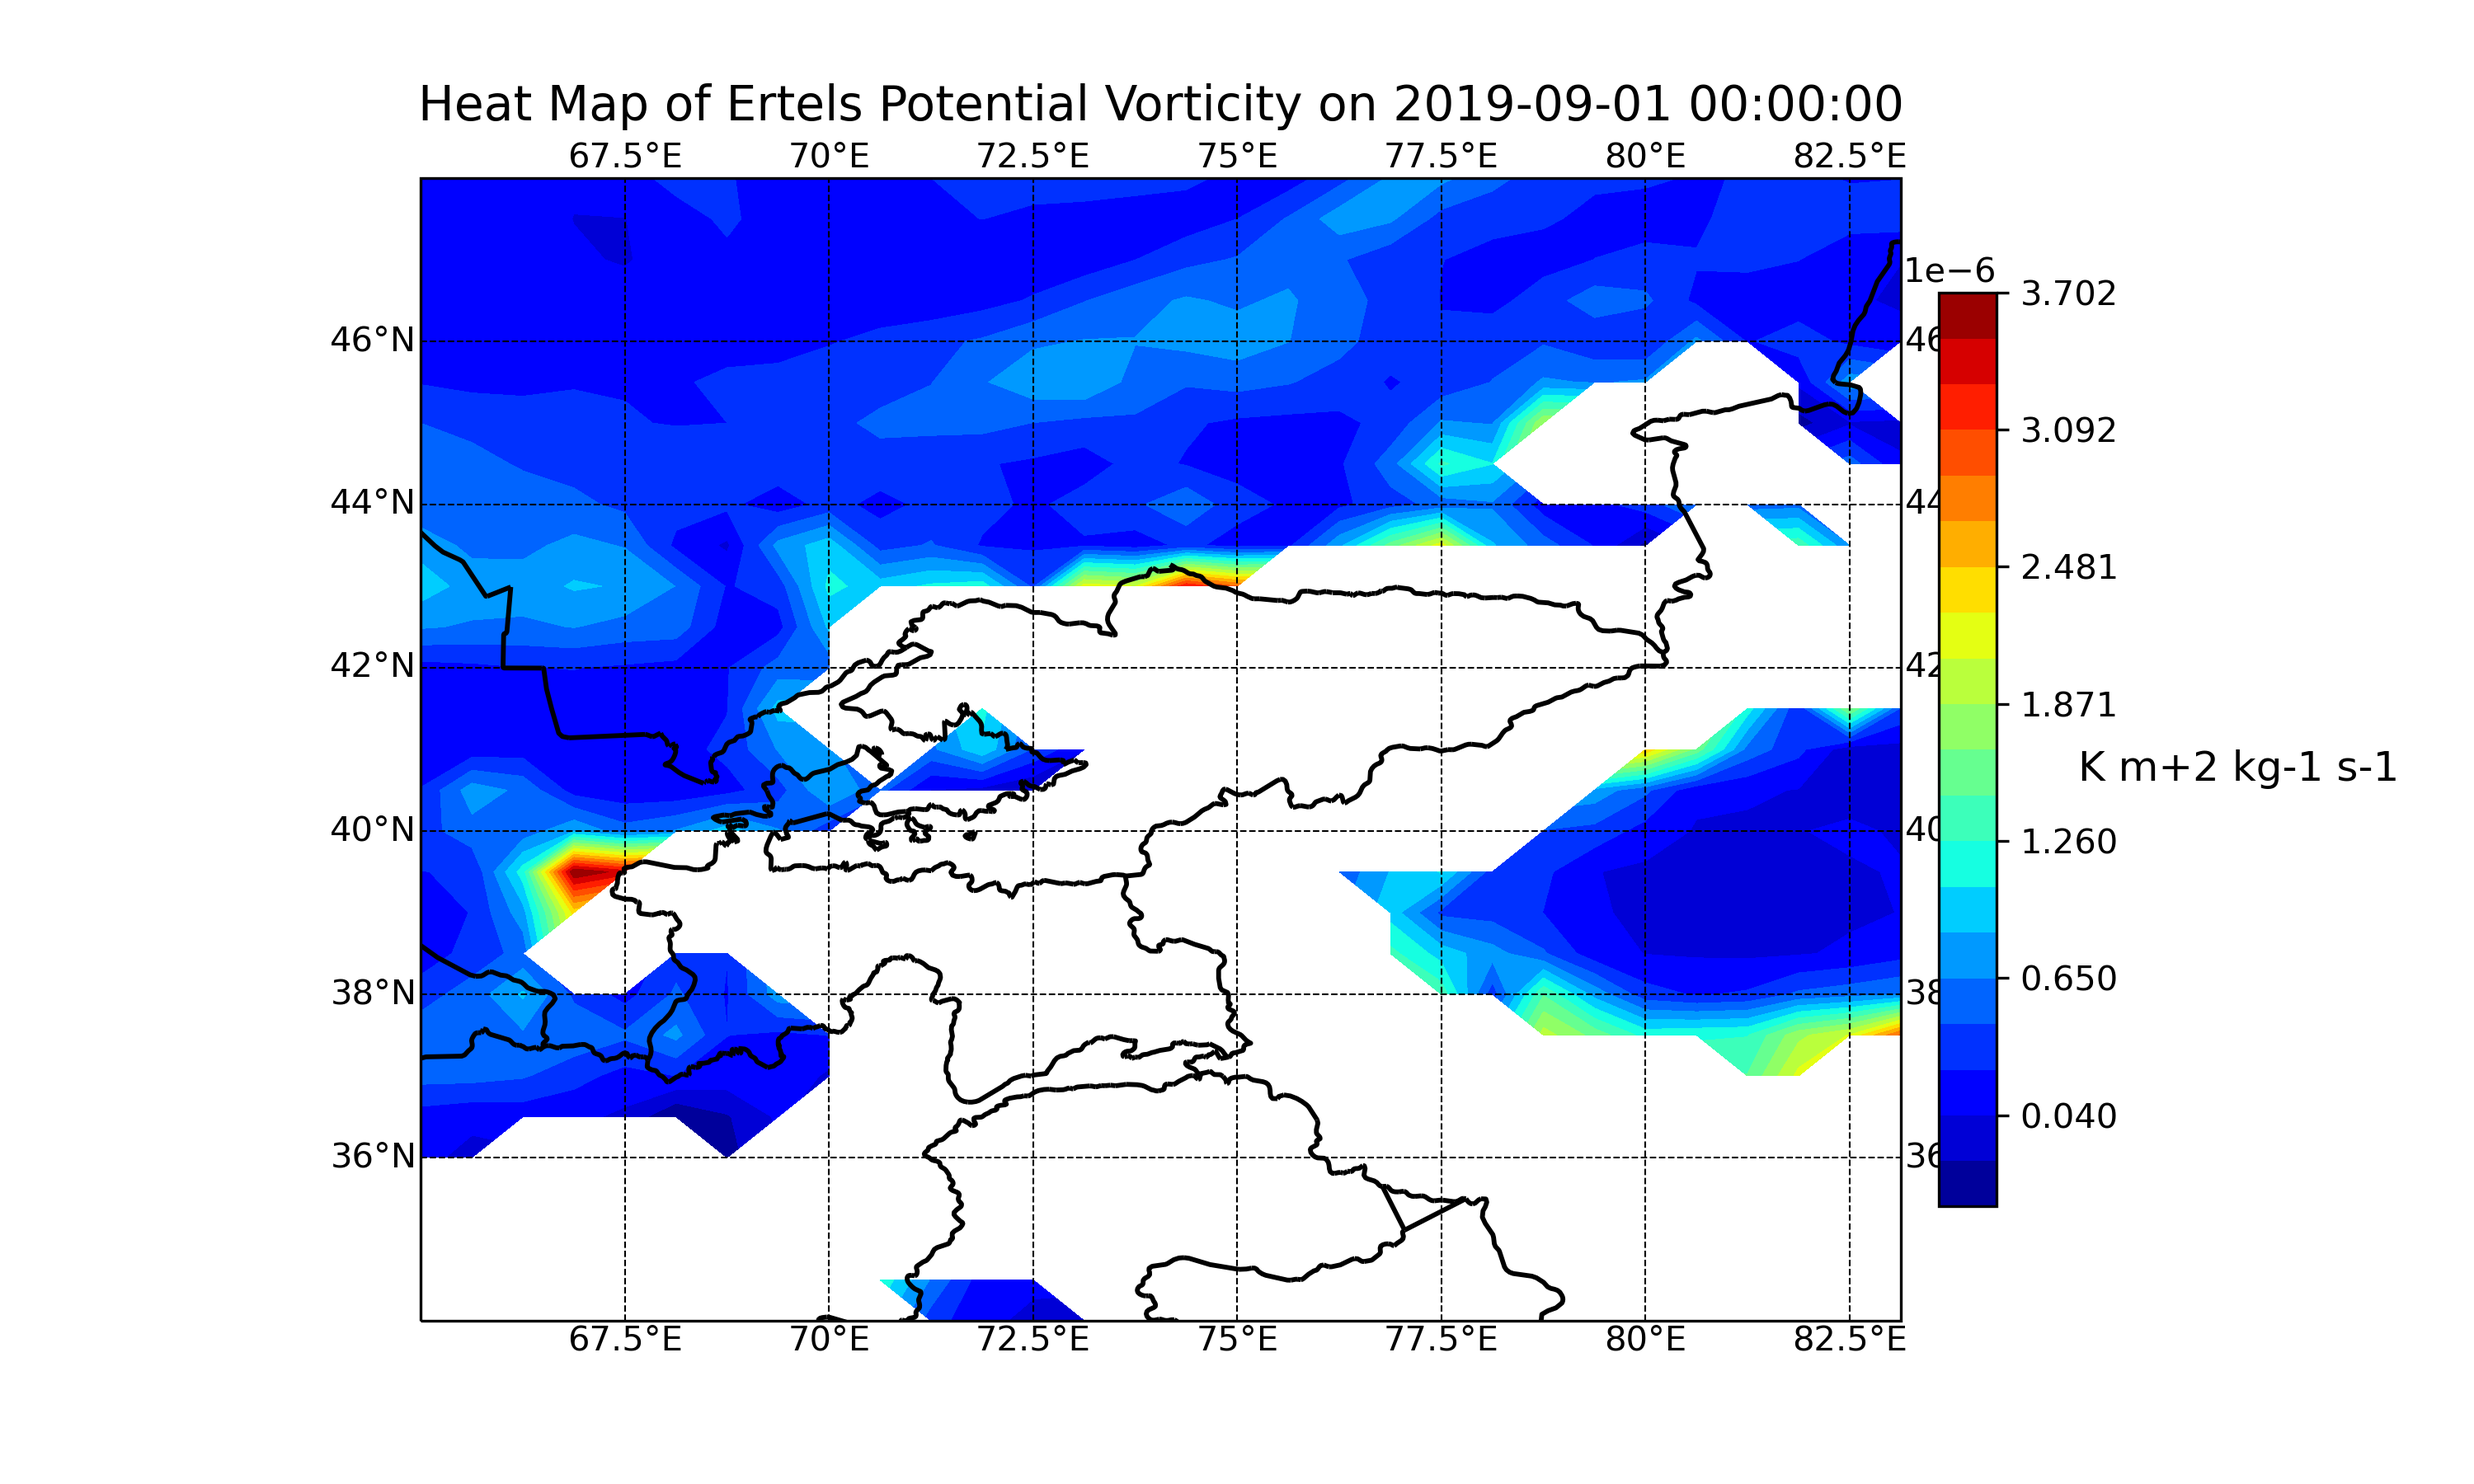
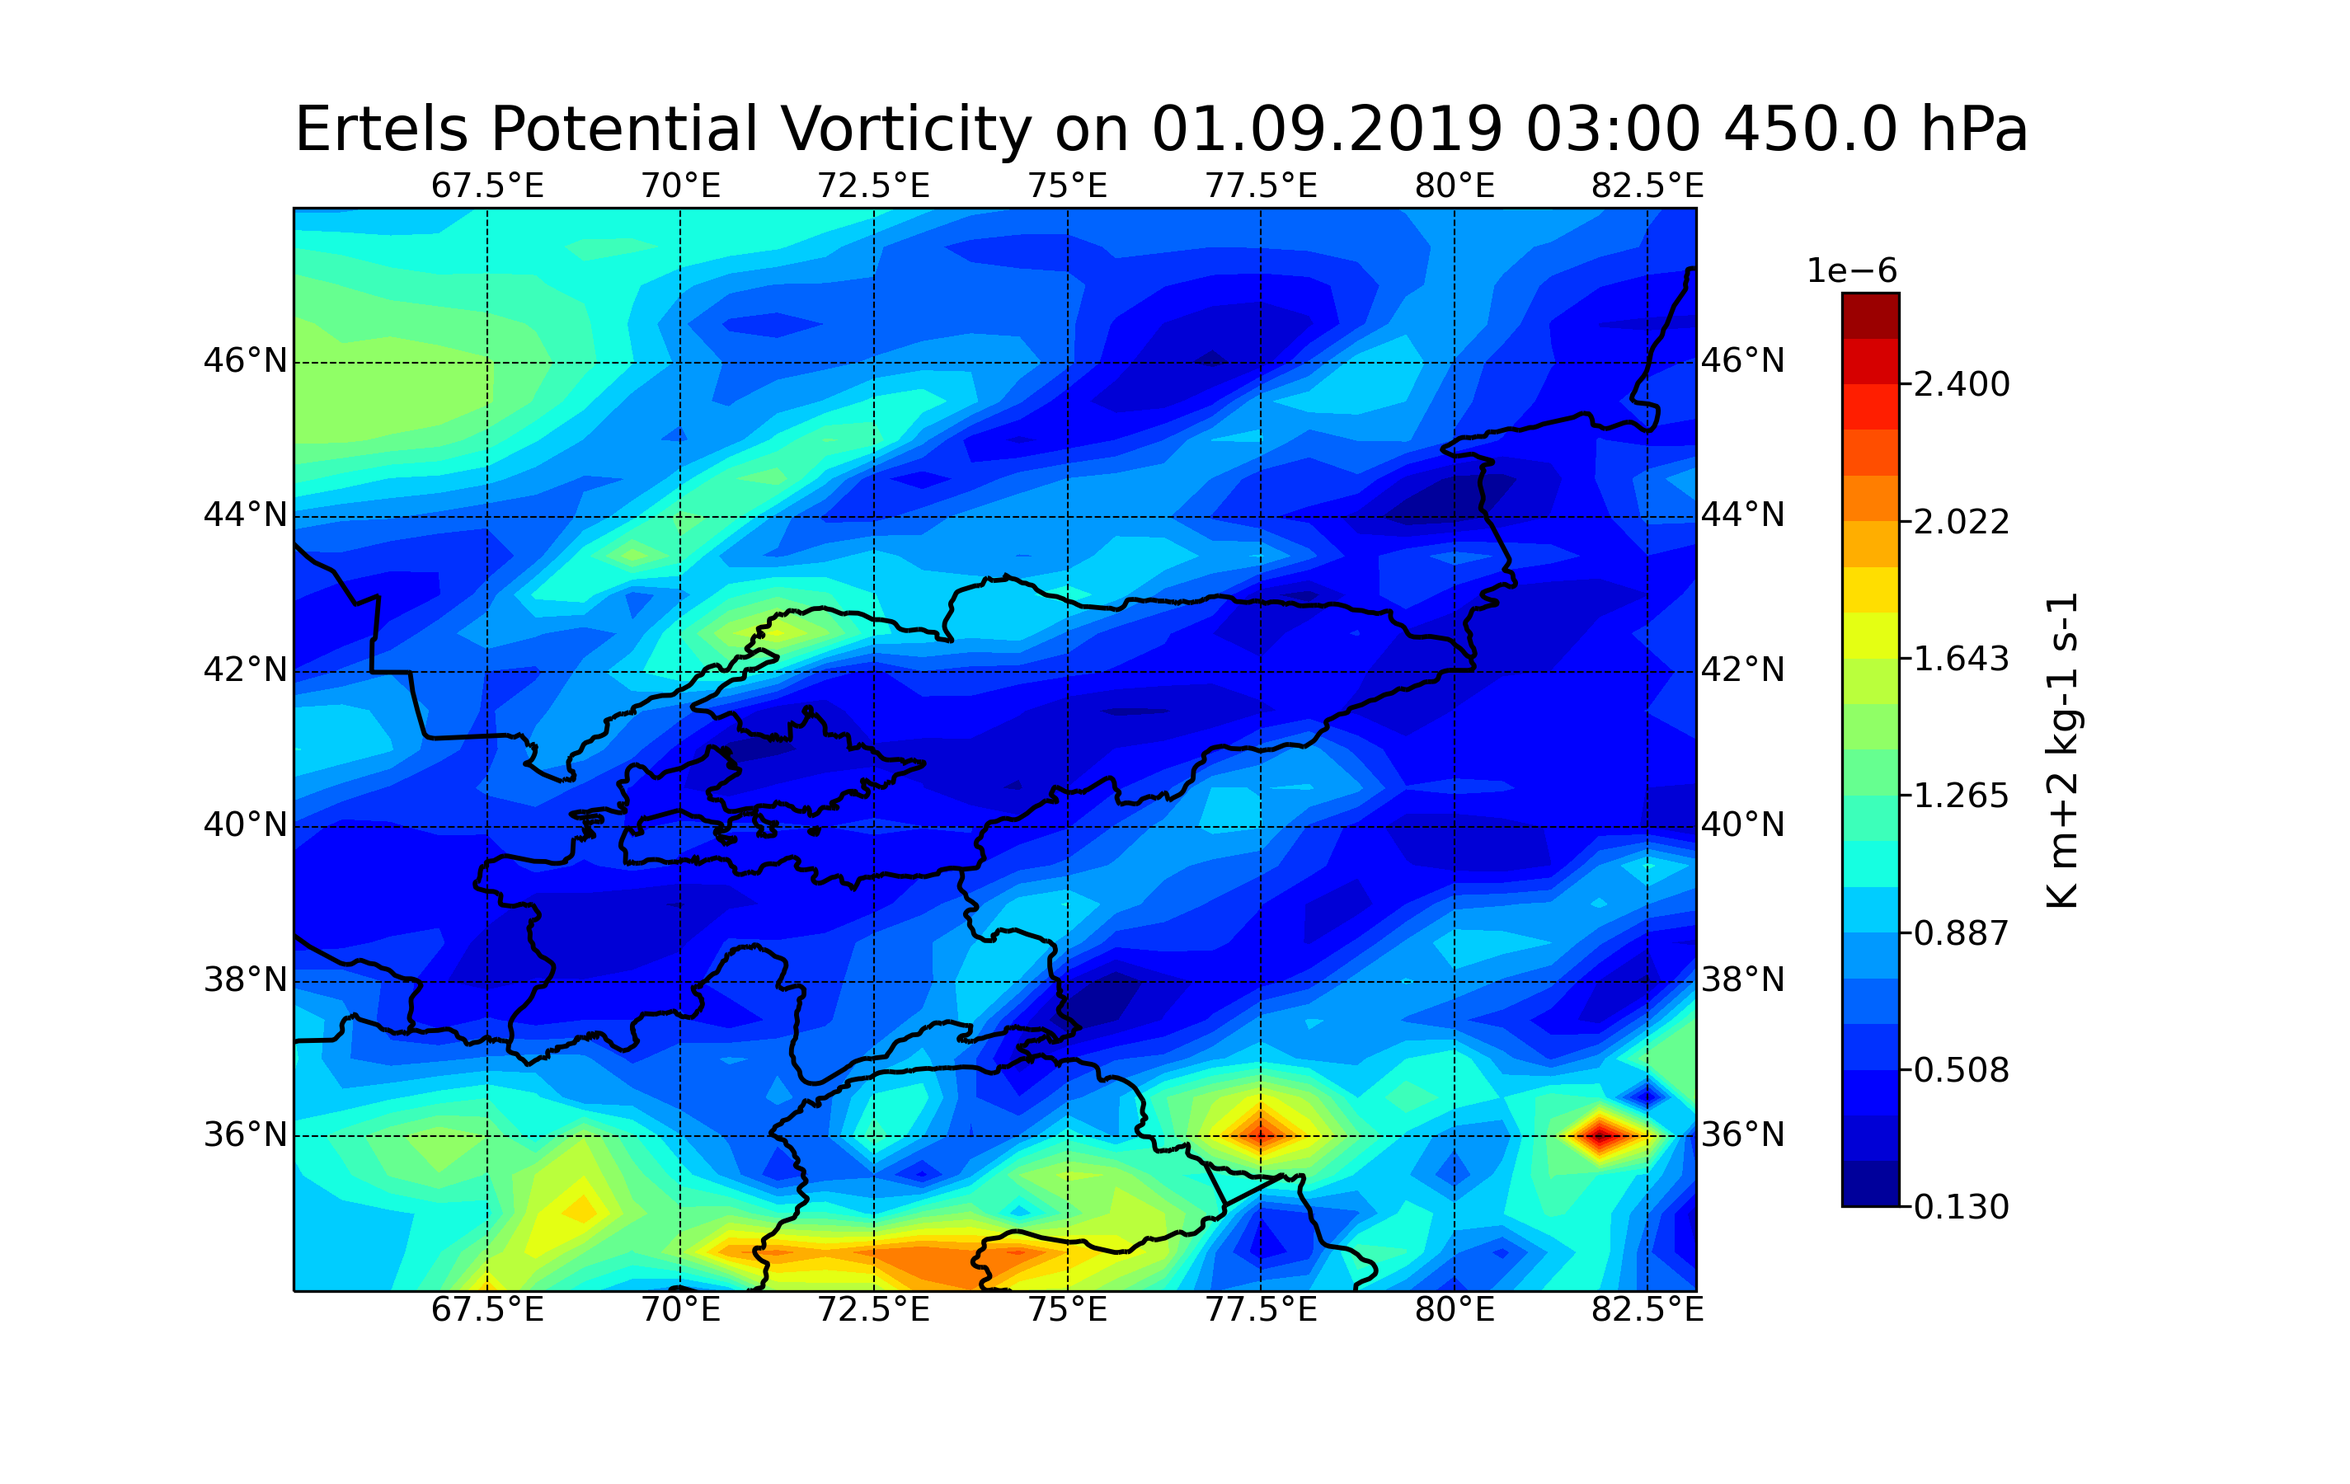
fix graph title, add level information, redo graphs

diff --git a/programs/plotting/plotting.py b/programs/plotting/plotting.py
@@ -61,13 +61,18 @@ def heatmap(src_folder: str, name: str, graph_datetime: str, level: int):
                 meta_dict['values_per_day']* 24))
         exit(-1)
 
+    lev_str = ""
+
     print("Plotting...")
     if meta_dict['lev_count'] == 0:
         data = src['data'][time_index,:,:]
         print(data.shape)
     elif level < meta_dict['lev_count']:
         data = src['data'][time_index, level,:,:]
+        lev_str = " " + str(src['lev'][level]) + " " \
+                + meta_dict['lev_units']
         print(data.shape)
+        print(lev_str)
     else:
         print("Level must be less than: " + str(meta_dict['lev_count']))
         exit(-1)
@@ -79,7 +84,7 @@ def heatmap(src_folder: str, name: str, graph_datetime: str, level: int):
     data_max = float(np.nanmax(data[:,:]))
     print(data_max)
 
-    print(data)
+    #print(data)
 
     if np.isnan(data_min) and np.isnan(data_max):
         print("This array contains no valid numbers. Exiting.")
@@ -89,8 +94,7 @@ def heatmap(src_folder: str, name: str, graph_datetime: str, level: int):
     lats = src['lat']
     lons = src['lon']
 
-    # Set the figure size, projection, and extent
-    fig = plt.figure(figsize=(10, 6))
+    fig = plt.figure(figsize=(9.5, 6))
 
     emin = meta_dict['lon_min']
     emax = meta_dict['lon_max']
@@ -106,34 +110,35 @@ def heatmap(src_folder: str, name: str, graph_datetime: str, level: int):
 
     res = float((data_max - data_min) / 20)
 
-    # Set contour levels, then draw the plot and a colorbar
     clevs = np.arange(data_min, data_max+res, res, dtype=float)
     plt.contourf(lons, lats, data, clevs, transform=ccrs.PlateCarree(),
                  cmap=plt.cm.jet)
 
-    cb = plt.colorbar(ax=ax, orientation="vertical", pad=0.02, aspect=16,
+    cb = plt.colorbar(ax=ax, orientation="vertical", pad=0.08, aspect=16,
                       shrink=0.8)
 
-    cb.ax.tick_params(labelsize=10)
+    cb.ax.tick_params(labelsize=10, pad=0.5)
 
-    title = "Heat Map of " + meta_dict['long_name'] + " on " \
-        + str(graph_datetime)
+    title = meta_dict['long_name'] + " on " \
+            + graph_datetime.strftime("%d.%m.%Y %H:%M") + lev_str
 
-    plt.title(title, size=14)
-    cb.set_label(meta_dict['units'], size=12, rotation=0, labelpad=35)
+    plt.title(title, size=18, loc='left')
+    cb.set_label(meta_dict['units'], size=12, rotation=90, labelpad=10)
 
     with open(name+".png", 'wb') as f:
         fig.savefig(f, format='png', dpi=file_dpi)
 
+
 def timeseries(src_folder: str, lat: float, lon: float):
     pass
+
 
 def graph_var(src_file: str, dest_file:str):
     pass
         
 if __name__ == '__main__':
     fire.Fire({
-        "graph": graph_var,
+    #    "graph": graph_var,
         "info": get_data_info,
         "heatmap": heatmap
     })
